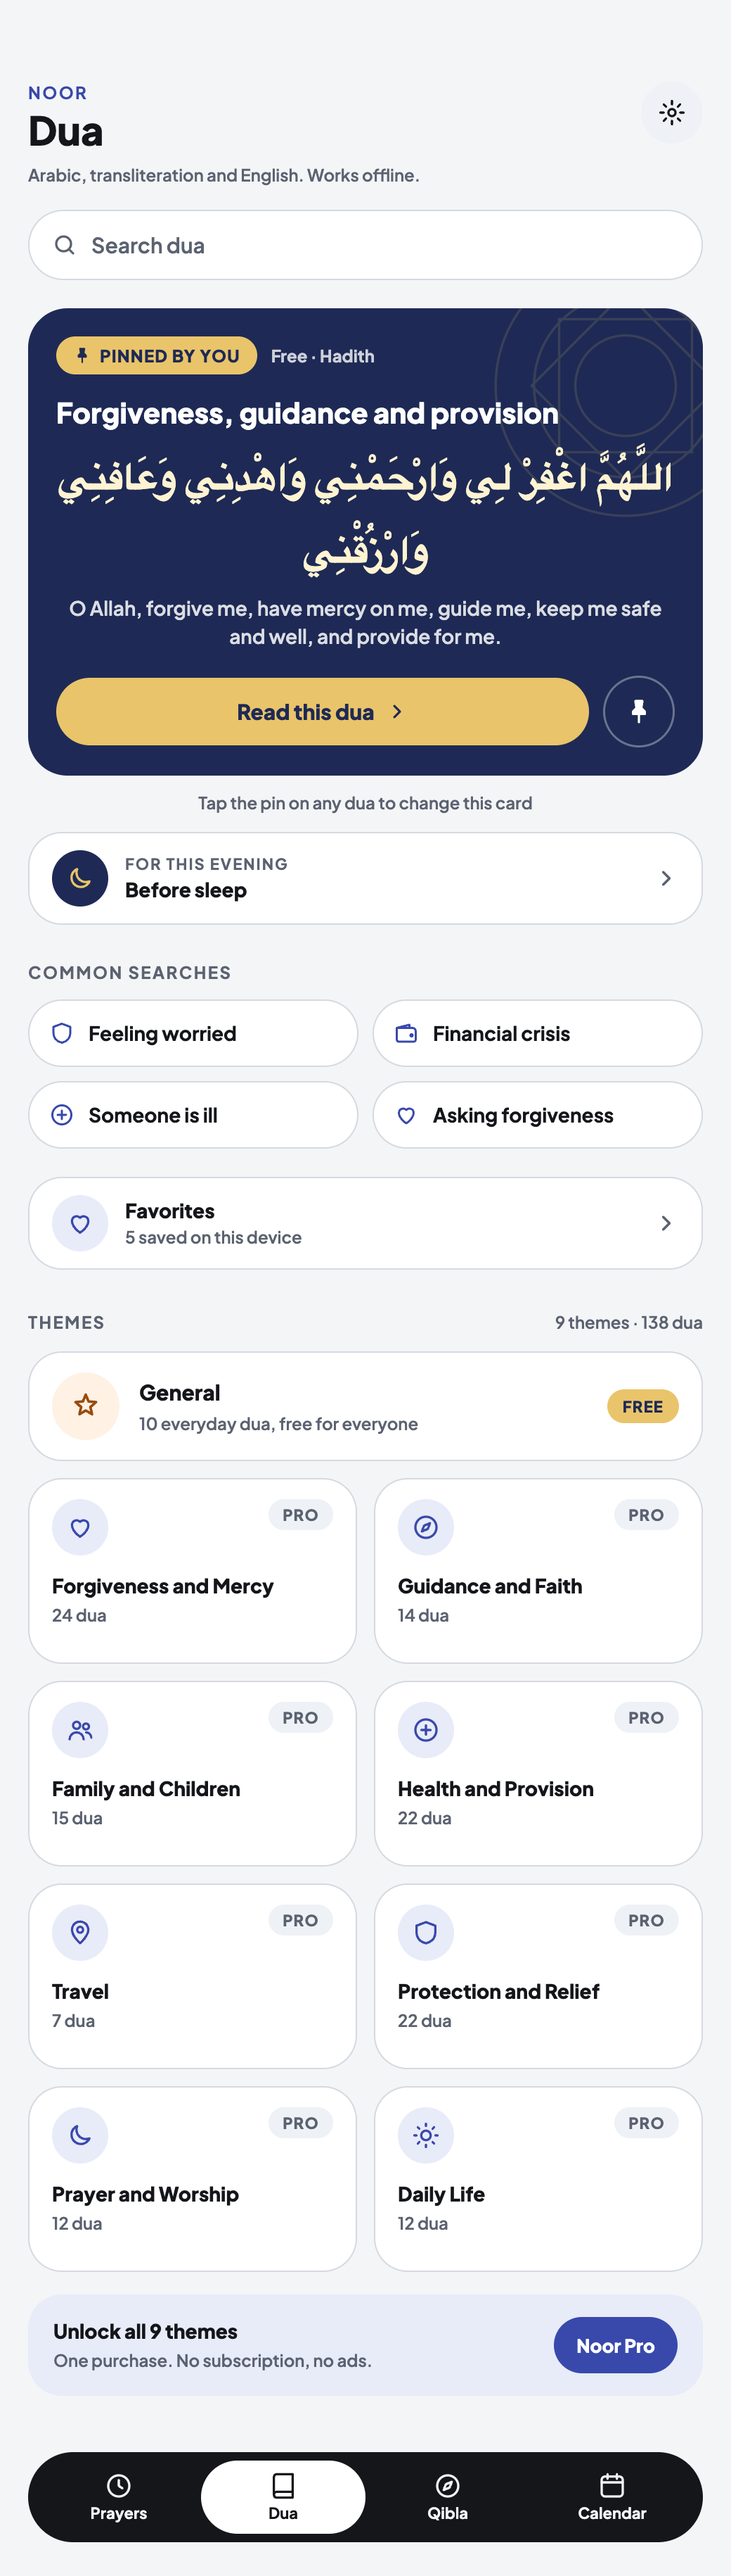
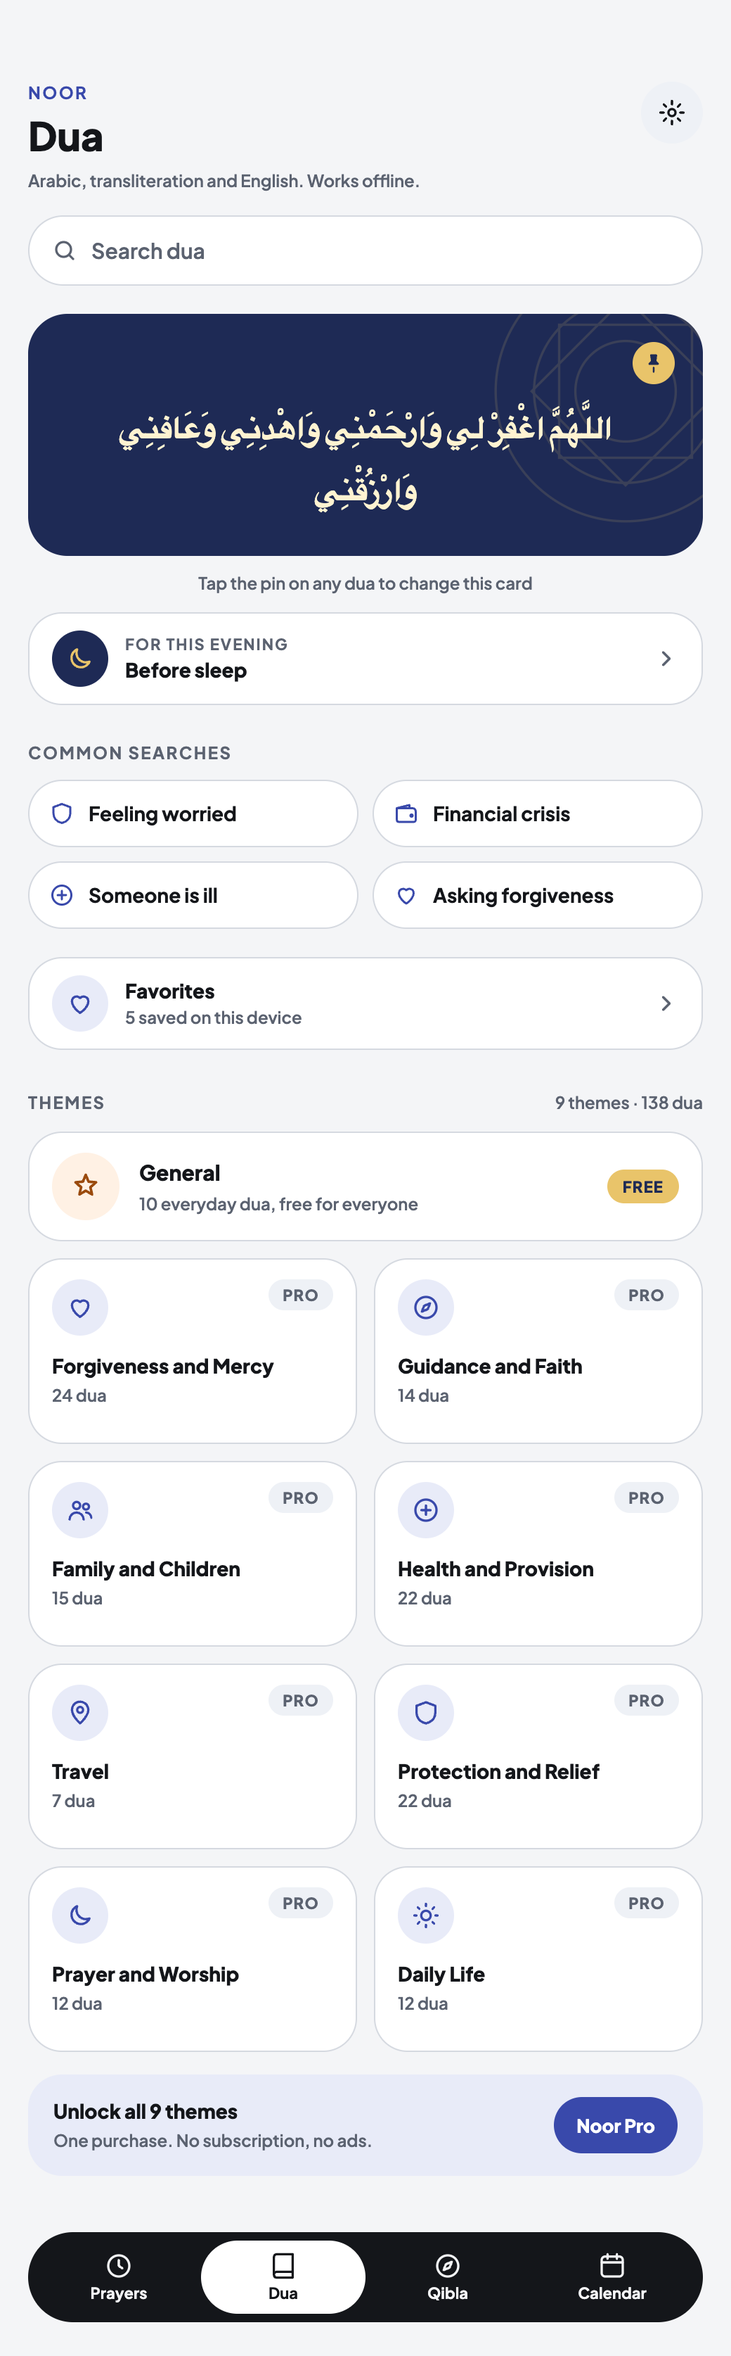
Refreshed screenshots, a Ramadan section and a daily photo line

diff --git a/index.html b/index.html
@@ -172,7 +172,7 @@ footer a:hover{color:var(--ink)}
         <div class="trust"><span>Works offline</span><span>No ads</span><span>No account</span><span>Free to use</span></div>
       </div>
       <div class="hero-phone">
-        <div class="phone"><img src="img/prayers.png" width="1120" height="2442" alt="The Prayers screen of Noor. A night-blue card shows Maghrib is next at 6:01 PM with a countdown, above a tasbih counter and a Dua shortcut."></div>
+        <div class="phone"><img src="img/prayers.png" width="1120" height="2458" alt="The Prayers screen of Noor. A night-blue card shows Maghrib is next at 6:01 PM with a countdown, above a tasbih counter and a Dua shortcut."></div>
       </div>
     </div>
   </div>
@@ -187,7 +187,7 @@ footer a:hover{color:var(--ink)}
     </div>
 
     <div class="row">
-      <div class="phone"><img src="img/prayers-timeline.png" width="780" height="1688" alt="The day as a timeline: Fajr, sunrise, Dhuhr and Asr are done, Now is marked, and Maghrib is highlighted as next."></div>
+      <div class="phone"><img src="img/prayers-timeline.png" width="1040" height="1800" alt="The day as a timeline: Fajr, sunrise, Dhuhr and Asr are done, Now is marked, and Maghrib is highlighted as next."></div>
       <div>
         <p class="overline">Prayers</p>
         <h3>See your whole day at a glance</h3>
@@ -196,13 +196,14 @@ footer a:hover{color:var(--ink)}
           <li>Calculated on your phone, so it works with no signal</li>
           <li>Choose your method and Asr rule. Add minutes to match your mosque</li>
           <li>Swipe the card to see other cities, each with its own time zone</li>
+          <li>A new mosque photo on the card every day, so it never feels stale</li>
           <li>A notification or vibration for each of the five prayers, with an optional reminder 5 to 30 minutes before</li>
         </ul>
       </div>
     </div>
 
     <div class="row flip">
-      <div class="phone"><img src="img/qibla.png" width="780" height="1688" alt="The Qibla compass with an arrow pointing to the Kaaba at 55 degrees."></div>
+      <div class="phone"><img src="img/qibla.png" width="1040" height="1802" alt="The Qibla compass with an arrow pointing to the Kaaba at 55 degrees, and a How to calibrate link."></div>
       <div>
         <p class="overline">Qibla</p>
         <h3>Find the direction. Know it is right.</h3>
@@ -210,13 +211,14 @@ footer a:hover{color:var(--ink)}
         <ul class="ticks">
           <li>Direction worked out on your phone</li>
           <li>Warns you when metal or magnets disturb the compass</li>
+          <li>A short animation shows how to calibrate it</li>
           <li>A map view if you would rather use that</li>
         </ul>
       </div>
     </div>
 
     <div class="row">
-      <div class="phone"><img src="img/calendar.png" width="780" height="1688" alt="The Hijri and Gregorian calendar with important dates marked in gold."></div>
+      <div class="phone"><img src="img/calendar.png" width="1040" height="2078" alt="The Hijri and Gregorian calendar with important dates marked in gold."></div>
       <div>
         <p class="overline">Calendar</p>
         <h3>Hijri and Gregorian, side by side</h3>
@@ -225,6 +227,20 @@ footer a:hover{color:var(--ink)}
           <li>Nudge the Hijri date by one day to match your local moon sighting</li>
           <li>Isra and Mi'raj, Ramadan, Eid and more</li>
           <li>Light and dark mode, large text and screen reader support</li>
+        </ul>
+      </div>
+    </div>
+
+    <div class="row flip">
+      <div class="phone"><img src="img/ramadan.png" width="1040" height="2160" alt="The Ramadan screen. A countdown to iftar over a mosque photo, the dua for breaking the fast in Arabic with its meaning, and a grid of fasting days."></div>
+      <div>
+        <p class="overline">Ramadan · Pro</p>
+        <h3>Ramadan, kept simple</h3>
+        <p class="body">A live countdown to iftar and to the end of suhoor, worked out from your own prayer times. Nothing else gets in the way.</p>
+        <ul class="ticks">
+          <li>The dua for breaking the fast, with its source</li>
+          <li>A quiet tracker for the days you fast, kept on your phone only</li>
+          <li>Before Ramadan it counts the days until it begins</li>
         </ul>
       </div>
     </div>
@@ -251,7 +267,7 @@ footer a:hover{color:var(--ink)}
         </ul>
       </div>
       <div class="shots">
-        <div class="phone"><img src="img/dua-home.png" width="1040" height="3660" alt="The Dua tab with a pinned dua in Arabic, a search box and common searches."></div>
+        <div class="phone"><img src="img/dua-home.png" width="1040" height="3348" alt="The Dua tab. A pinned dua shows in Arabic at the top, with a search box, common searches and the dua themes below."></div>
         <div class="phone"><img src="img/dua-reading.png" width="1040" height="1688" alt="A dua on the reading screen with Arabic, translation and transliteration."></div>
       </div>
     </div>
